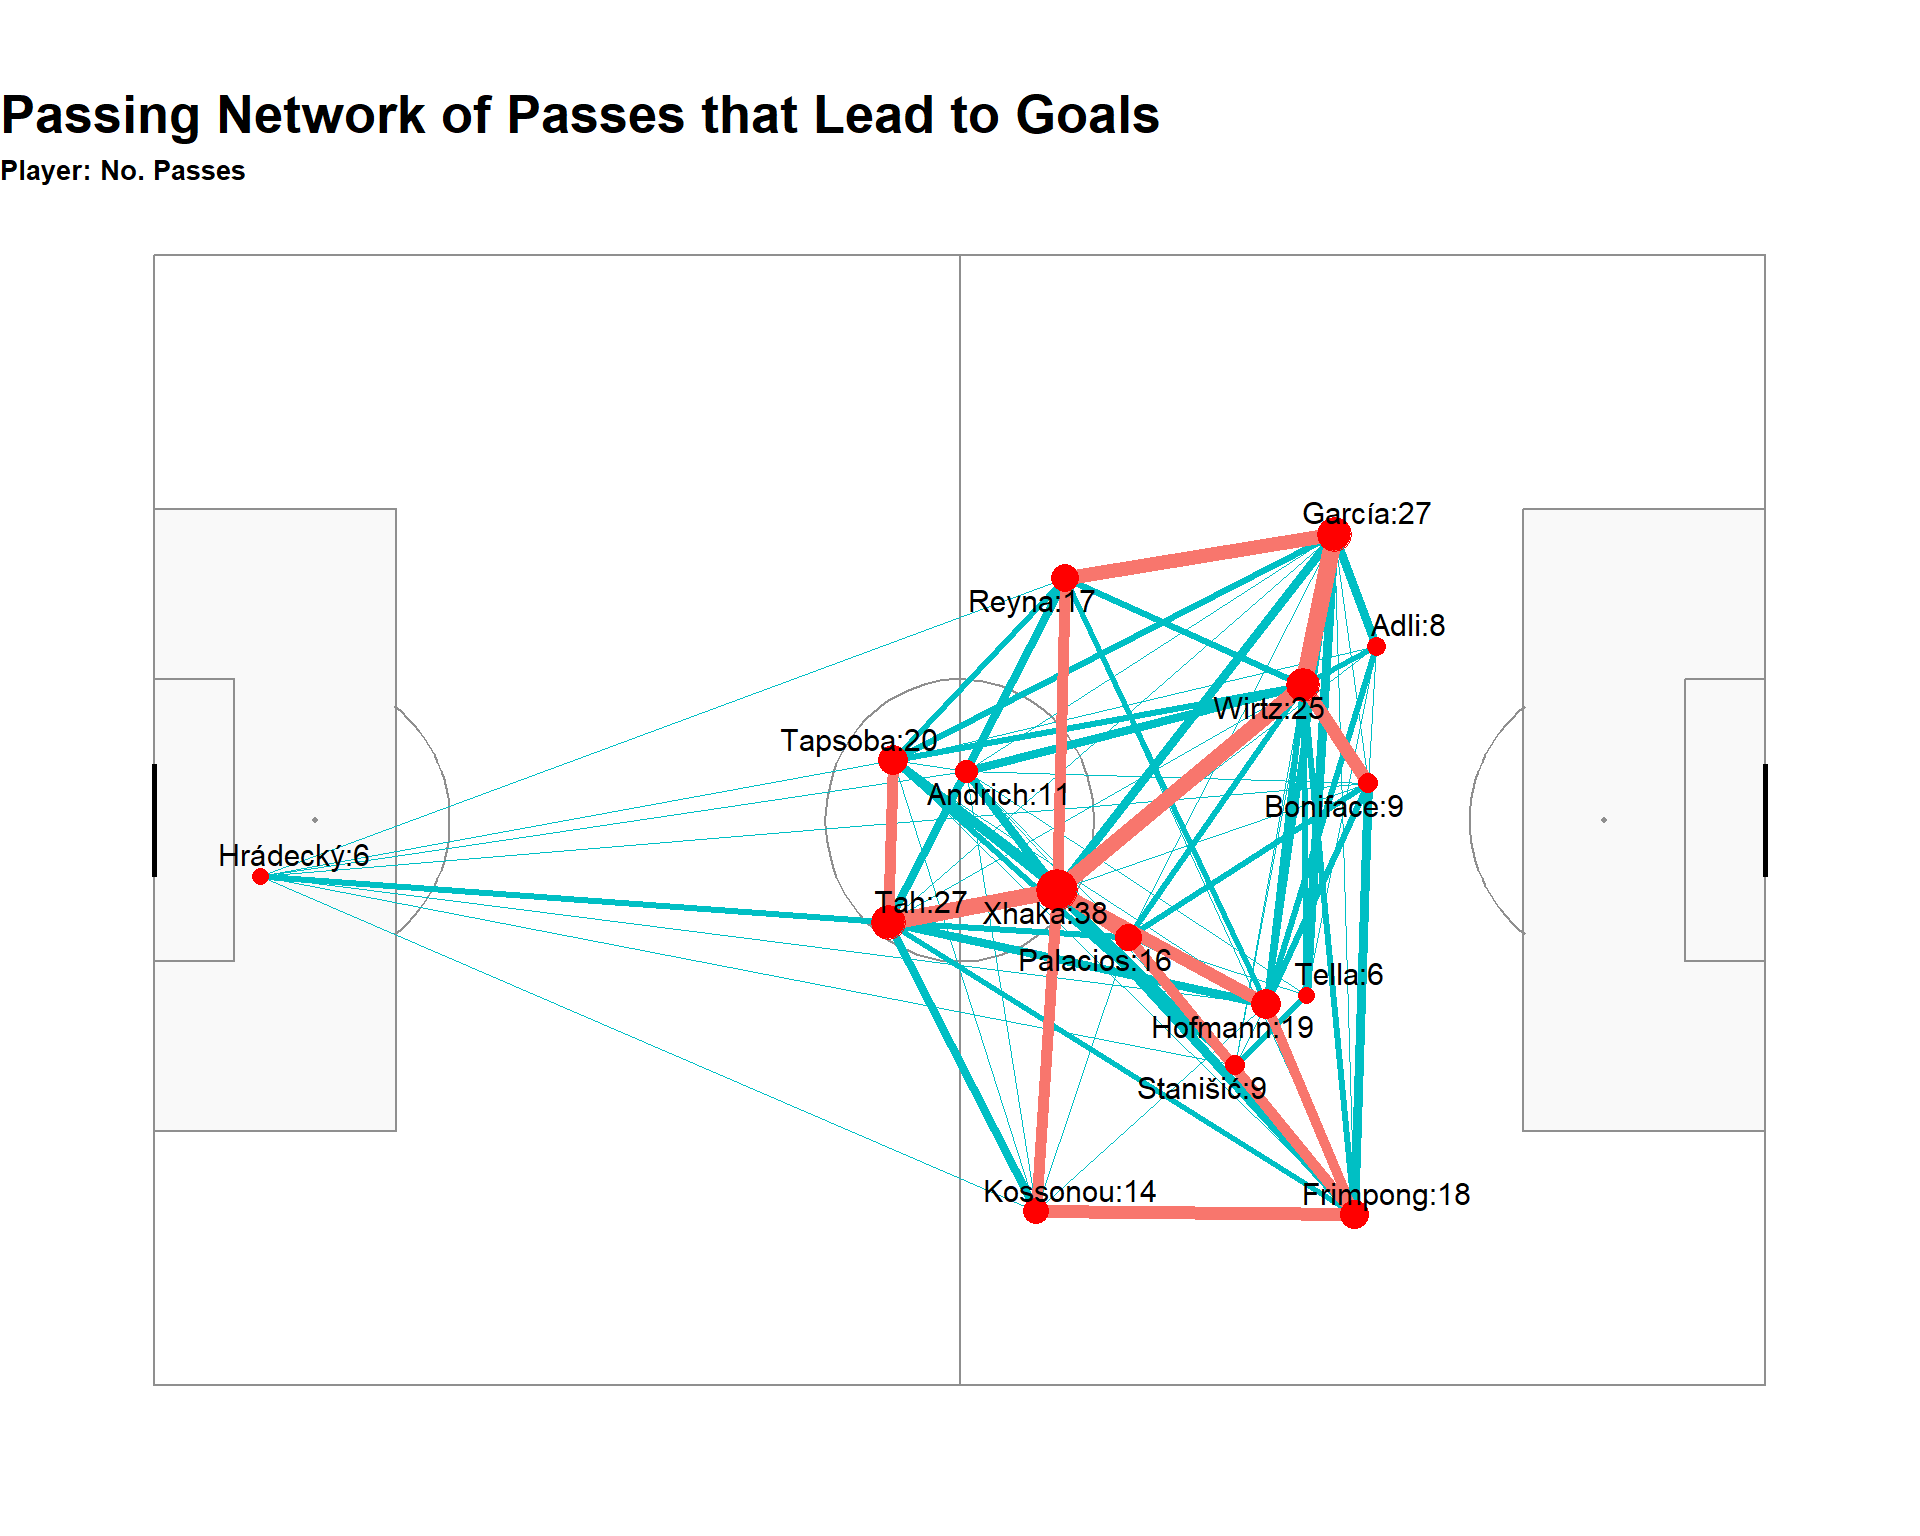
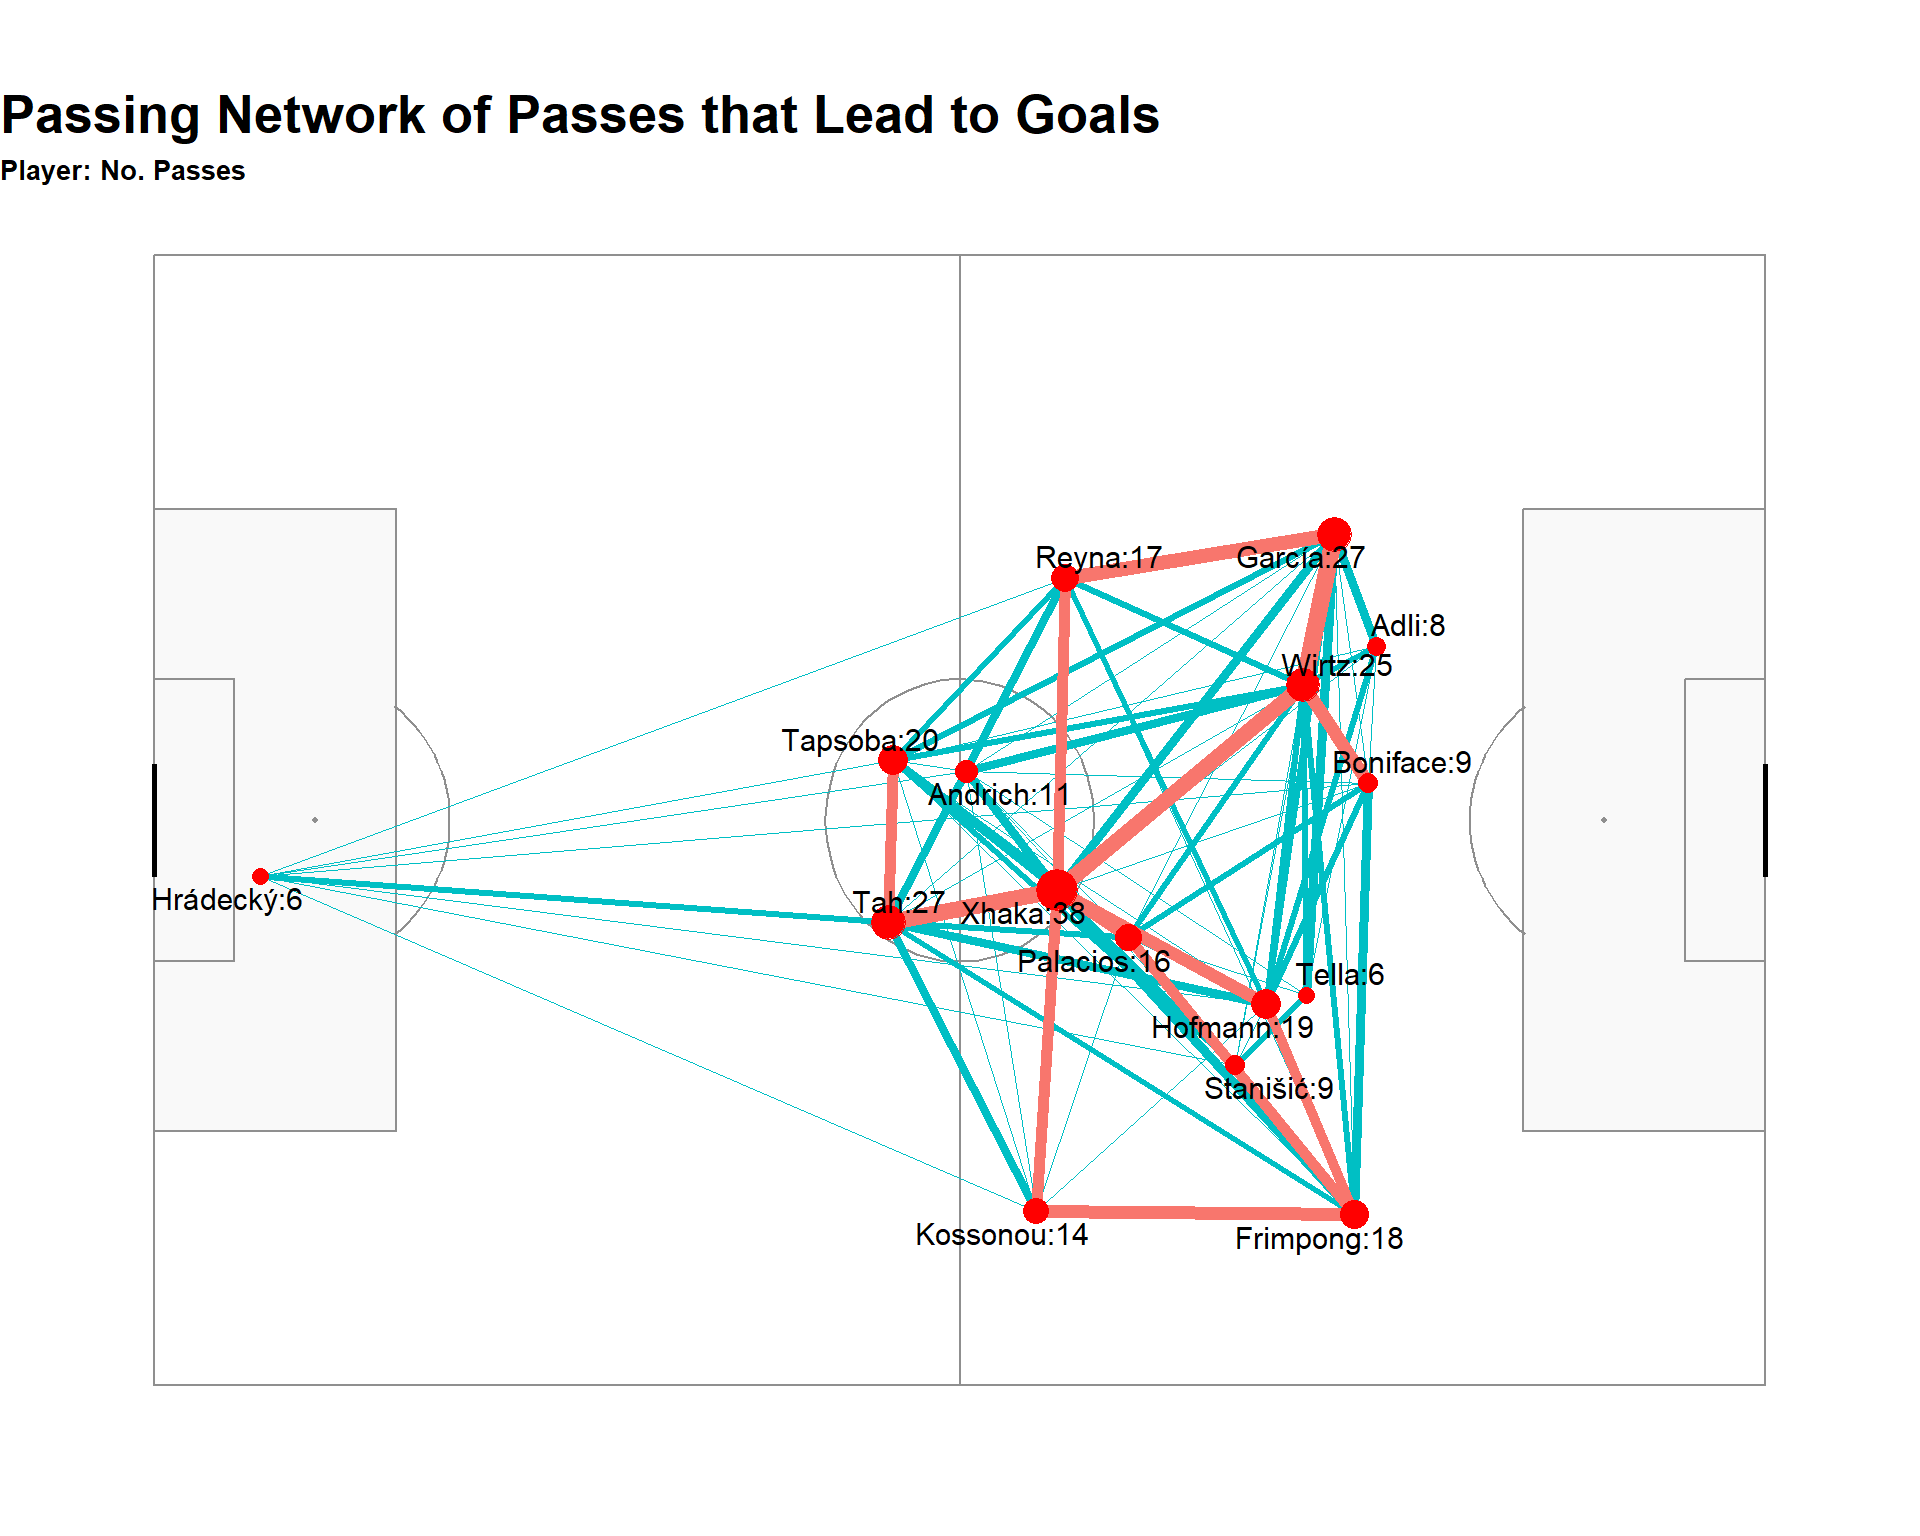
Built site for gh-pages

diff --git a/Injury Viz/post.html b/Injury Viz/post.html
@@ -213,12 +213,12 @@ window.Quarto = {
 <p>Some independent data scraping and visualisation of my own has painted a similar picture. Check out the correlation between average gameweeks missed per player and the final league position of their team. This visual takes into account the “top six” teams of the EPL. There is a striking correlation between the two variables (r = 0.32). The plot alone suggests that if a top six EPL team manage to keep their average-gameweeks-missed-per-player rate to below 3 they stand a very good chance of finishing in the top 3 (bar a couple of outliers). The lower a team’s average gameweeks missed per player, the higher the team is expected to finish at the end of the season.</p>
 <p>While one may think the phrase “striking correlation” to describe a correlation of r=0.32 might be a bit exaggerated, it is important to understand what this actually means. Given how multi-dimensional and highly complex predicting league position is, a variable with a correlation of r=0.32 explains roughly 10% of the variation in final league position through average gameweeks missed per player alone. That’s a fair amount of heavy lifting based off just one variable.</p>
 <p>Additionally, based off the same study, there is a hefty financial impact on an EPL club from player injuries too (as one would expect). When factoring in the amortization of transfer fees, baseline wage bills, and lost merit-based prize money, it is estimated that an EPL team loses an average of £45 million sterling per season solely due to injury-related decrements in performance.</p>
-<div id="4a6ba086" class="cell" data-execution_count="2">
+<div id="d5f8dc17" class="cell" data-execution_count="2">
 <div class="cell-output cell-output-display">
 <div>            <script src="https://cdnjs.cloudflare.com/ajax/libs/mathjax/2.7.5/MathJax.js?config=TeX-AMS-MML_SVG"></script><script>if (window.MathJax && window.MathJax.Hub && window.MathJax.Hub.Config) {window.MathJax.Hub.Config({SVG: {font: "STIX-Web"}});}</script>                <script>window.PlotlyConfig = {MathJaxConfig: 'local'};</script>
[2 lines of base64/hex data omitted]
                             
-var gd = document.getElementById('4893f65e-df6f-4088-a2a4-431985d0fd55');
+var gd = document.getElementById('6e4cb0be-ca61-447e-a638-864fc1d7c5ce');
 var x = new MutationObserver(function (mutations, observer) {{
         var display = window.getComputedStyle(gd).display;
         if (!display || display === 'none') {{
@@ -246,12 +246,12 @@ if (outputEl) {{
 <p><br>
 </p>
 <p>We have clear evidence that injuries, and especially matches missed per player in the EPL have an immense impact on their team’s performance and what’s worse is that there is a clear trend that average gameweeks missed per player have increased over time. See the plot below.</p>
-<div id="51bff8c7" class="cell page-columns page-full" data-message="false" data-execution_count="3">
+<div id="c01a3cc0" class="cell page-columns page-full" data-message="false" data-execution_count="3">
 <div class="cell-output cell-output-display column-page">
 <div>            <script src="https://cdnjs.cloudflare.com/ajax/libs/mathjax/2.7.5/MathJax.js?config=TeX-AMS-MML_SVG"></script><script>if (window.MathJax && window.MathJax.Hub && window.MathJax.Hub.Config) {window.MathJax.Hub.Config({SVG: {font: "STIX-Web"}});}</script>                <script>window.PlotlyConfig = {MathJaxConfig: 'local'};</script>
[2 lines of base64/hex data omitted]
                             
-var gd = document.getElementById('62597e15-c991-4402-884e-0cb5723fb314');
+var gd = document.getElementById('45fdaa14-a4b3-4e3a-88eb-923ce35e55a3');
 var x = new MutationObserver(function (mutations, observer) {{
         var display = window.getComputedStyle(gd).display;
         if (!display || display === 'none') {{

diff --git a/xT/post.html b/xT/post.html
@@ -168,7 +168,7 @@ gtag('config', 'G-F43XL2R4CB', { 'anonymize_ip': true});
 <p><img src="plots/movement map/legend.png" class="img-fluid quarto-figure quarto-figure-center figure-img"></p>
 </figure>
 </div>
-<div class="cell column-page quarto-layout-panel" data-layout-nrow="2" data-layout-ncol="4" data-grid-template-columns="repeat(4, 1fr)">
+<div class="cell column-page quarto-layout-panel" data-layout-nrow="2" data-grid-template-columns="repeat(4, 1fr)" data-layout-ncol="4">
 <div class="quarto-layout-row">
 <div class="quarto-layout-cell" style="flex-basis: 25.0%;justify-content: center;">
 <p><img src="plots/movement map/Juventus_movement_map.png" class="img-fluid"></p>
@@ -223,7 +223,7 @@ gtag('config', 'G-F43XL2R4CB', { 'anonymize_ip': true});
 <p><img src="plots/shot frequency/legend.png" class="img-fluid quarto-figure quarto-figure-center figure-img"></p>
 </figure>
 </div>
-<div class="cell column-page quarto-layout-panel" data-layout-nrow="2" data-layout-ncol="4" data-grid-template-columns="repeat(4, 1fr)">
+<div class="cell column-page quarto-layout-panel" data-layout-nrow="2" data-grid-template-columns="repeat(4, 1fr)" data-layout-ncol="4">
 <div class="quarto-layout-row">
 <div class="quarto-layout-cell" style="flex-basis: 25.0%;justify-content: center;">
 <p><img src="plots/shot frequency/Juventus_shot_freq.png" class="img-fluid"></p>
@@ -273,7 +273,7 @@ gtag('config', 'G-F43XL2R4CB', { 'anonymize_ip': true});
 <p><img src="plots/goal frequency/legend.png" class="img-fluid quarto-figure quarto-figure-center figure-img"></p>
 </figure>
 </div>
-<div class="cell column-page quarto-layout-panel" data-layout-nrow="2" data-layout-ncol="4" data-grid-template-columns="repeat(4, 1fr)">
+<div class="cell column-page quarto-layout-panel" data-layout-nrow="2" data-grid-template-columns="repeat(4, 1fr)" data-layout-ncol="4">
 <div class="quarto-layout-row">
 <div class="quarto-layout-cell" style="flex-basis: 25.0%;justify-content: center;">
 <p><img src="plots/goal frequency/Juventus_goal_freq.png" class="img-fluid"></p>
@@ -323,7 +323,7 @@ gtag('config', 'G-F43XL2R4CB', { 'anonymize_ip': true});
 <p><img src="plots/xG/legend.png" class="img-fluid quarto-figure quarto-figure-center figure-img"></p>
 </figure>
 </div>
-<div class="cell column-page quarto-layout-panel" data-layout-nrow="2" data-layout-ncol="4" data-grid-template-columns="repeat(4, 1fr)">
+<div class="cell column-page quarto-layout-panel" data-layout-nrow="2" data-grid-template-columns="repeat(4, 1fr)" data-layout-ncol="4">
 <div class="quarto-layout-row">
 <div class="quarto-layout-cell" style="flex-basis: 25.0%;justify-content: center;">
 <p><img src="plots/xG/Juventus_xg.png" class="img-fluid"></p>
@@ -374,7 +374,7 @@ gtag('config', 'G-F43XL2R4CB', { 'anonymize_ip': true});
 <p><img src="plots/xT/legend.png" class="img-fluid quarto-figure quarto-figure-center figure-img"></p>
 </figure>
 </div>
-<div class="cell column-page quarto-layout-panel" data-layout-ncol="2" data-layout-nrow="2">
+<div class="cell column-page quarto-layout-panel" data-layout-nrow="2" data-layout-ncol="2">
 <div class="quarto-layout-row">
 <div class="quarto-layout-cell" style="flex-basis: 50.0%;justify-content: center;">
 <p><img src="plots/xT/Juventus_xt.png" class="img-fluid"></p>
@@ -384,7 +384,7 @@ gtag('config', 'G-F43XL2R4CB', { 'anonymize_ip': true});
 </div>
 </div>
 </div>
-<div class="cell column-page quarto-layout-panel" data-layout-ncol="2" data-layout-nrow="2">
+<div class="cell column-page quarto-layout-panel" data-layout-nrow="2" data-layout-ncol="2">
 <div class="quarto-layout-row">
 <div class="quarto-layout-cell" style="flex-basis: 50.0%;justify-content: center;">
 <p><img src="plots/xT/AS Roma_xt.png" class="img-fluid"></p>
@@ -394,7 +394,7 @@ gtag('config', 'G-F43XL2R4CB', { 'anonymize_ip': true});
 </div>
 </div>
 </div>
-<div class="cell column-page quarto-layout-panel" data-layout-ncol="2" data-layout-nrow="2">
+<div class="cell column-page quarto-layout-panel" data-layout-nrow="2" data-layout-ncol="2">
 <div class="quarto-layout-row">
 <div class="quarto-layout-cell" style="flex-basis: 50.0%;justify-content: center;">
 <p><img src="plots/xT/Fiorentina_xt.png" class="img-fluid"></p>
@@ -404,7 +404,7 @@ gtag('config', 'G-F43XL2R4CB', { 'anonymize_ip': true});
 </div>
 </div>
 </div>
-<div class="cell column-page quarto-layout-panel" data-layout-ncol="2" data-layout-nrow="2">
+<div class="cell column-page quarto-layout-panel" data-layout-nrow="2" data-layout-ncol="2">
 <div class="quarto-layout-row">
 <div class="quarto-layout-cell" style="flex-basis: 50.0%;justify-content: center;">
 <p><img src="plots/xT/Genoa_xt.png" class="img-fluid"></p>

diff --git a/index.html b/index.html
@@ -134,10 +134,10 @@ gtag('config', 'G-F43XL2R4CB', { 'anonymize_ip': true});
 </div>
 <section id="welcome-to-my-portfolio" class="level1 right-pane">
 <h1>Welcome to my Portfolio</h1>
-<p>If you are into Football, data, or anything else, you are in the right place. They say the journey is often better than the destination, but that doesn’t apply here. You have landed on my personal web page and you won’t be disappointed. Read something. Learn something. Contact me. Don’t contact me. Do what you want to do, never let a stranger tell you what to do.</p>
-<p>Reach out if you see something interesting and want to colab on something or discuss a topic you may be interested in.</p>
-<p>And to end off with an inspirational quote:</p>
-<p>“Just do it.”<br>
+<p>If you are into Football, data, or anything else, you are in the right place. Big shoutout to myself for writing this bio without using the assistance of an LLM. I might just through in a spelling error to highlight my authenticity. On the other hand, if you have more questions about my blog posts, work experience, etc, feel free to ask my AI avatar <a href="https://gareth1995.github.io/Gareth-Edwards-Website/chat.html">here</a> (Please note that it is a chatbot and not me).</p>
+<p>Feel free to reach out if you see something interesting and want to colab on something or discuss a topic you may be interested in.</p>
+<p>And to end off with a piece of sound advice:</p>
+<p>“Don’t believe it just because it’s in quotation marks.”<br>
 - Sir Isaac Newton</p>
 <!-- ::: {.button-group}
 <a href="My_CV.pdf" target="_blank" class="btn-dark">Resume</a>

diff --git a/Injury Prediction/post.html b/Injury Prediction/post.html
@@ -431,7 +431,7 @@ Figure&nbsp;1: Average Gameweeks Missed vs.&nbsp;League Finish
 </table>
 <p>Extensive EDA and necessary transformations (StandardScaler for columns with a normal distribution and Yeo-Johnson scaling for skewed data) were applied. These transformations help the model see the patterns in the data better as it places all the numbers on the same scale. Without transformations any column with large numbers like Speed_km_h_mean compared to columns with smaller numbers like ACWR will dominate the model during training.</p>
 <p>Two further features were added to the dataset, and that was event and time-to-event. Where event is a boolean value (0 or 1) denoting if a player got injured within the next seven days (1) or not (0). Time-to-event was the number of days leading up to the event (starting at 7 days back). See an example of the unscaled dataset below:</p>
-<div id="d5cfd05b" class="cell" data-execution_count="1">
+<div id="1db8d874" class="cell" data-execution_count="1">
 <div class="cell-output cell-output-display" data-execution_count="1">
 <div>
 
